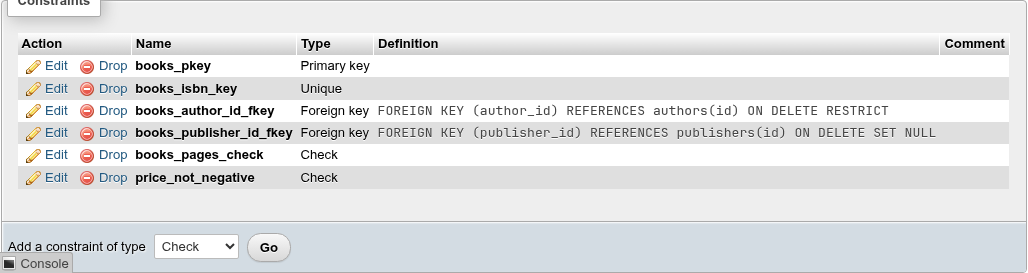
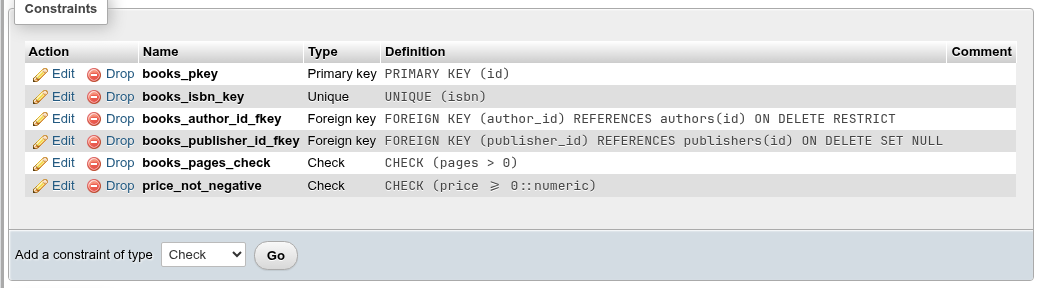
fix(tables): column type COLLATE, constraint definitions, trigger and rule state, atomic create table
- A column type change emits COLLATE only when the new type is collatable
- Primary key, unique and check constraints carry pg_get_constraintdef()
  on the Structure tab
- Extended statistics without a name: the OID lookup used a boolean for
  the schema (Twig "or" → "?:"); owner, target and comment are applied
  under the generated name in the same transaction
- Triggers and rules honour Enabled on create, and an edit restores the
  enabled state CREATE OR REPLACE resets; a rule rename and toggle in one
  save uses the new name; trigger argument changes produce SQL
- Constraint triggers are edited by DROP + CREATE in one batch, keeping
  comment and state; DEFERRABLE can be turned off
- Create table runs CREATE TABLE, partitions and indexes in one
  transaction (indexes on a new table are never CONCURRENTLY)
- Dependents name column defaults by their column instead of "Function",
  and merge an object's duplicate pg_depend rows
- The Cluster link also finds a clustered primary key or unique index

Changed region(s): [[0.0, 0.0, 1.0, 1.0]]

diff --git a/Modules/Tables/resources/js/Pages/TableOperations.tsx b/Modules/Tables/resources/js/Pages/TableOperations.tsx
@@ -28,15 +28,19 @@ export default function TableOperations() {
   const navigate = useNavigate()
   const { data, error, reload } = useRequest(async () => {
     const { scid, tid } = await resolveTable(db, schema, table)
-    const [properties, options, keys, idx] = await Promise.all([
+    const [properties, options, keys, idx, primary, unique] = await Promise.all([
       tables(db, scid).properties(tid),
       tableOptions(db, scid),
       constraints(db, scid, tid, 'foreign_key').list() as Promise<ForeignKeyRow[]>,
       indexesOf(db, scid, tid).list(),
+      // The index list leaves out the indexes of constraints, which the table may be clustered on too.
+      constraints(db, scid, tid, 'primary_key').list(),
+      constraints(db, scid, tid, 'unique_constraint').list(),
     ])
     const parts: Partition[] = properties.is_partitioned ? await partitionsOf(db, scid, tid).list() : []
+    const clustered = [...idx, ...primary, ...unique].find((i) => i.indisclustered)?.name ?? null
 
-    return { scid, tid, properties, options, keys, clustered: idx.find((i) => i.indisclustered)?.name ?? null, partitions: parts }
+    return { scid, tid, properties, options, keys, clustered, partitions: parts }
   }, [db, schema, table])
   const [preview, setPreview] = useState<Preview>(null)
   const [confirm, setConfirm] = useState<{ sql: string; warning?: string; run: () => Promise<void>; boxes?: { key: string; label: string }[] } | null>(null)

diff --git a/Modules/Tables/resources/js/triggers/RuleDialog.tsx b/Modules/Tables/resources/js/triggers/RuleDialog.tsx
@@ -52,7 +52,7 @@ export default function RuleDialog({ show, db, scid, parent, relOid, rule, onClo
   const collection = () => rulesOf(db, scid, parent, relOid)
 
   function data(): RuleData {
-    return { name, event, condition, do_instead: instead, statements: statements.trim() === '' ? 'NOTHING' : statements, comment, is_enable_rule: enabled ? 'O' : 'D' }
+    return { name, event, condition, do_instead: instead, statements: statements.trim() === '' ? 'NOTHING' : statements, comment, is_enable_rule: !enabled ? 'D' : rule && rule.is_enable_rule !== 'D' ? rule.is_enable_rule : 'O' }
   }
 
   async function save() {

diff --git a/Modules/Tables/resources/js/triggers/TriggerDialog.tsx b/Modules/Tables/resources/js/triggers/TriggerDialog.tsx
@@ -110,7 +110,8 @@ export default function TriggerDialog({ show, db, scid, parent, relOid, columns,
       tgoldtable: oldTable,
       tgnewtable: newTable,
       description: comment,
-      is_enable_trigger: enabled ? 'O' : 'D',
+      // Ticked keeps an ENABLE REPLICA or ALWAYS trigger as it is.
+      is_enable_trigger: !enabled ? 'D' : trigger && trigger.is_enable_trigger !== 'D' ? trigger.is_enable_trigger : 'O',
     }
   }
 

diff --git a/Modules/Tables/resources/js/api.ts b/Modules/Tables/resources/js/api.ts
@@ -110,6 +110,8 @@ export interface Constraint {
   condeferred?: boolean
   convalidated?: boolean
   consrc?: string
+  /** A primary key's or unique constraint's index is the one the table is clustered on. */
+  indisclustered?: boolean
 }
 
 export type ConstraintType = 'primary_key' | 'unique_constraint' | 'foreign_key' | 'check_constraint' | 'exclusion_constraint'

diff --git a/app/Core/Nodes/Dependencies.php b/app/Core/Nodes/Dependencies.php
@@ -18,7 +18,7 @@ final class Dependencies
     private const string TEMPLATES = 'depends';
 
     /** The node whose icon a type without a node of its own takes. */
-    private const array ICON_OF = ['partition_table' => 'table', 'partition_index' => 'index', 'toast_table' => 'table'];
+    private const array ICON_OF = ['partition_table' => 'table', 'partition_index' => 'index', 'toast_table' => 'table', 'column_default' => 'column'];
 
     /** relkind codes; null means the row needs a closer look. */
     private const array STANDARD_TYPES = [
@@ -81,7 +81,20 @@ final class Dependencies
         $where ??= sprintf('WHERE dep.refobjid=%d::oid', $oid);
         $sql = Sql::render(self::TEMPLATES, 'dependents.sql', ['where_clause' => $where, 'object_id' => $oid], $conn->version());
 
-        return self::fetch($conn, $sql, $showSystemObjects);
+        // An object that depends on the object and on one of its columns (a check constraint,
+        // a trigger's WHEN, a rule) is one row; when one of those dependencies is auto, it goes
+        // with the object, so that is the restriction shown.
+        $result = [];
+        foreach (self::fetch($conn, $sql, $showSystemObjects) as $row) {
+            $key = $row['type'] . "\0" . $row['name'];
+            if (!isset($result[$key])) {
+                $result[$key] = $row;
+            } elseif ($row['field'] === 'auto') {
+                $result[$key]['field'] = 'auto';
+            }
+        }
+
+        return array_values($result);
     }
 
     /** @return list<array{type: string, name: string, field: string, icon: string|null}> */
@@ -121,12 +134,13 @@ final class Dependencies
                         }
                     }
                 } elseif ($typeCode[0] === 'A') {
-                    // A column default: only worth listing when it calls a function.
+                    // A column default: only worth listing when it calls a function. It is
+                    // named by its column, "public.t.c DEFAULT nextval(…)", not as a function.
                     if (!str_starts_with((string) ($row['adbin'] ?? ''), '{FUNCEXPR')) {
                         continue;
                     }
-                    $typeName = 'function';
-                    $prefix = (string) $row['adsrc'];
+                    $typeName = 'column_default';
+                    $prefix = trim(($row['adcolumn'] ?? '') . (($row['adgenerated'] ?? '') !== '' ? ' GENERATED ALWAYS AS (' . $row['adsrc'] . ')' : ' DEFAULT ' . $row['adsrc']));
                     $keepRef = false;
                 }
             } else {

diff --git a/Modules/Tables/Ddl/TriggerDdl.php b/Modules/Tables/Ddl/TriggerDdl.php
@@ -109,7 +109,13 @@ final class TriggerDdl
             throw new BadRequestException('A trigger needs at least one event.');
         }
 
-        return $ctx->renderFrom('triggers', 'create.sql', ['data' => $data]);
+        $sql = $ctx->renderFrom('triggers', 'create.sql', ['data' => $data]);
+        // A new trigger is enabled ('O'); any other state is an ALTER TABLE after it.
+        if (($data['is_enable_trigger'] ?? 'O') !== 'O') {
+            $sql .= "\n" . $ctx->renderFrom('triggers', 'enable_disable_trigger.sql', ['data' => $data]);
+        }
+
+        return $sql;
     }
 
     /**
@@ -145,7 +151,13 @@ final class TriggerDdl
             $data['evnt_update'] ??= $old['evnt_update'];
         }
         // A CREATE OR REPLACE restates the whole definition; a new one is written from the form.
-        if (array_intersect_key($data, array_flip(['fires', 'is_row_trigger', 'evnt_insert', 'evnt_update', 'evnt_delete', 'evnt_truncate', 'tfunction', 'tgargs', 'whenclause', 'columns', 'is_constraint_trigger'])) !== []) {
+        // A constraint trigger has no CREATE OR REPLACE (and its deferrability is part of its
+        // definition): it is dropped and created again, in the same batch.
+        $isConstraint = (bool) ($data['is_constraint_trigger'] ?? $old['is_constraint_trigger']) || (bool) $old['is_constraint_trigger'];
+        $definition = ['fires', 'is_row_trigger', 'evnt_insert', 'evnt_update', 'evnt_delete', 'evnt_truncate', 'tfunction', 'tgargs', 'whenclause', 'columns', 'is_constraint_trigger', ...($isConstraint ? ['tgdeferrable', 'tginitdeferred'] : [])];
+        if (array_intersect_key($data, array_flip($definition)) !== []) {
+            $data['restate'] = true;
+            $data['recreate'] = $isConstraint;
             foreach (['fires', 'is_row_trigger', 'evnt_insert', 'evnt_update', 'evnt_delete', 'evnt_truncate', 'tfunction', 'is_constraint_trigger'] as $key) {
                 $data[$key] ??= $old[$key];
             }

diff --git a/Modules/Tables/Http/Controllers/StatisticsController.php b/Modules/Tables/Http/Controllers/StatisticsController.php
@@ -68,14 +68,27 @@ final class StatisticsController extends NodeController
         return Ddl::assemble([Ddl::header('Statistics', Quoting::ident((string) $data['schema'], (string) $data['name']), $drop), $ctx->render('create.sql', ['data' => $data])]);
     }
 
-    /** CREATE STATISTICS; the new object's node, found by name or, when the server named it, as the table's newest. */
+    /**
+     * CREATE STATISTICS; the new object's node, found by name or, when the server named it, as
+     * the table's newest. create.sql can only set the owner, target and comment of a named
+     * object, so an unnamed one gets them from ALTER STATISTICS under the name the server chose,
+     * in the same transaction.
+     */
     public function create(NodeContext $ctx, array $data): array
     {
         $data = $this->forCreate($ctx, $data);
-        $this->execute($ctx, $ctx->render('create.sql', ['data' => $data]));
-        $row = $ctx->conn->row($ctx->render('get_oid.sql', ['schema' => $data['schema'], 'name' => $data['name'] ?? null, 'table_schema' => $data['table_schema'], 'table' => $data['table']])) ?? throw $this->gone($ctx);
 
-        return $this->node($ctx, (int) $row['oid']);
+        $oid = $ctx->conn->transaction(function () use ($ctx, $data): int {
+            $this->execute($ctx, $ctx->render('create.sql', ['data' => $data]));
+            $row = $ctx->conn->row($ctx->render('get_oid.sql', ['schema' => $data['schema'], 'name' => $data['name'] ?? null, 'table_schema' => $data['table_schema'], 'table' => $data['table']])) ?? throw $this->gone($ctx);
+            if (!isset($data['name'])) {
+                $this->execute($ctx, $this->updateSql($ctx, (int) $row['oid'], array_intersect_key($data, array_flip(['owner', 'stattarget', 'comment']))));
+            }
+
+            return (int) $row['oid'];
+        });
+
+        return $this->node($ctx, $oid);
     }
 
     /** ALTER STATISTICS for a new name, owner, target or comment. */

diff --git a/Modules/Tables/Http/Controllers/RuleController.php b/Modules/Tables/Http/Controllers/RuleController.php
@@ -5,6 +5,7 @@ declare(strict_types=1);
 namespace PhpPgAdmin\Modules\Tables\Http\Controllers;
 
 use League\Route\Http\Exception\BadRequestException;
+use PhpPgAdmin\Core\Database\Quoting;
 use PhpPgAdmin\Core\Nodes\Ddl;
 use PhpPgAdmin\Core\Nodes\NodeContext;
 
@@ -20,6 +21,9 @@ use PhpPgAdmin\Core\Nodes\NodeContext;
 final class RuleController extends TableChildController
 {
     private const array EVENTS = ['1' => 'SELECT', '2' => 'UPDATE', '3' => 'INSERT', '4' => 'DELETE'];
+
+    /** pg_rewrite.ev_enabled and the ALTER TABLE … RULE clause that sets it. */
+    private const array ENABLE_STATES = ['O' => 'ENABLE', 'D' => 'DISABLE', 'R' => 'ENABLE REPLICA', 'A' => 'ENABLE ALWAYS'];
 
     public function list(NodeContext $ctx): array
     {
@@ -105,8 +109,14 @@ final class RuleController extends TableChildController
         $data['name'] = $this->requireName($data);
         [$data['schema'], $data['view']] = $this->parentNames($ctx);
         $data = self::normalise($data);
+        $sql = $ctx->render('create.sql', ['data' => $data]);
+        // A new rule is enabled ('O'); any other state is an ALTER TABLE after it.
+        $state = self::ENABLE_STATES[(string) ($data['is_enable_rule'] ?? 'O')] ?? null;
+        if ($state !== null && $state !== 'ENABLE') {
+            $sql = rtrim($sql) . sprintf("\n\nALTER TABLE %s\n    %s RULE %s;\n", Quoting::ident((string) $data['schema'], (string) $data['view']), $state, Quoting::ident((string) $data['name']));
+        }
 
-        return $ctx->render('create.sql', ['data' => $data]);
+        return $sql;
     }
 
     /** update.sql against the rule as it stands; fields equal to the current value are dropped. */

diff --git a/Modules/Tables/Ddl/ColumnSql.php b/Modules/Tables/Ddl/ColumnSql.php
@@ -46,6 +46,7 @@ final class ColumnSql
         $column['schema'] = $schema;
         $column['table'] = $table;
         self::normaliseSerial($column, $old);
+        self::dropCollationForType($ctx, $column, $old);
 
         return $ctx->renderFrom('columns', 'update.sql', ['data' => $column, 'o_data' => $old]);
     }
@@ -142,6 +143,28 @@ final class ColumnSql
 
         foreach (['seqincrement', 'seqstart', 'seqmin', 'seqmax', 'seqcache', 'seqcycle', 'seqtypname'] as $key) {
             unset($column[$key]);
+        }
+    }
+
+    /**
+     * The update template repeats the column's collation after a new type; a type without
+     * collation support (integer, a date) rejects any COLLATE clause, so a column changing to
+     * one leaves its old collation behind.
+     *
+     * @param array<string, mixed> $column
+     * @param array<string, mixed> $old
+     */
+    private static function dropCollationForType(NodeContext $ctx, array &$column, array &$old): void
+    {
+        $cltype = $column['cltype'] ?? null;
+        if (!is_string($cltype) || $cltype === '' || $cltype === $old['cltype']) {
+            return;
+        }
+
+        $collatable = $ctx->conn->scalar('SELECT t.typcollation <> 0 FROM pg_catalog.pg_type t WHERE t.oid = pg_catalog.to_regtype($1)', [$cltype]);
+        if ($collatable === false || $collatable === 'f') {
+            unset($column['collspcname']);
+            $old['collspcname'] = '';
         }
     }
 

diff --git a/Modules/Tables/Ddl/TableSql.php b/Modules/Tables/Ddl/TableSql.php
@@ -26,7 +26,8 @@ use PhpPgAdmin\Core\Nodes\Options;
 final class TableSql
 {
     /**
-     * CREATE TABLE and what follows it, then one CREATE INDEX per "indexes" entry.
+     * CREATE TABLE and what follows it, then one CREATE INDEX per "indexes" entry (never
+     * CONCURRENTLY, so that all of it can run in one transaction).
      *
      * @return array{sql: string, indexes: list<string>, name: string, schema: string}
      */
@@ -76,6 +77,9 @@ final class TableSql
 
         $indexes = [];
         foreach ((array) ($data['indexes'] ?? []) as $index) {
+            // The table runs in one transaction with its indexes, which CONCURRENTLY cannot
+            // join; nobody else sees the new table before the commit anyway.
+            $index = [...(array) $index, 'isconcurrent' => false];
             $indexes[] = IndexSql::createSql($ctx, $data['schema'], $name, $index);
         }
 

diff --git a/Modules/Tables/Http/Controllers/TableController.php b/Modules/Tables/Http/Controllers/TableController.php
@@ -43,10 +43,13 @@ final class TableController extends RelationController
     public function create(NodeContext $ctx, array $data): array
     {
         $created = TableSql::create($ctx, $data);
-        $this->execute($ctx, $created['sql']);
-        foreach ($created['indexes'] as $index) {
-            $this->execute($ctx, $index);
-        }
+        // All or nothing: a failing index or partition leaves no table behind.
+        $ctx->conn->transaction(function () use ($ctx, $created): void {
+            $this->execute($ctx, $created['sql']);
+            foreach ($created['indexes'] as $index) {
+                $this->execute($ctx, $index);
+            }
+        });
 
         return $this->node($ctx, $this->oidOf($ctx, $created['name']));
     }

diff --git a/docs/table/triggers.md b/docs/table/triggers.md
@@ -38,7 +38,7 @@ A disabled trigger does not fire, but stays defined. Disabling the internal trig
 | **Constraint** → **Constraint trigger**, **Deferrable**, **Initially deferred** | Tables only: a constraint trigger, which can be deferred to commit. | `CREATE CONSTRAINT TRIGGER … DEFERRABLE INITIALLY DEFERRED` |
 | **Transition tables** → **OLD TABLE AS**, **NEW TABLE AS** | Shown for **STATEMENT** triggers: names for the sets of old and new rows. | `REFERENCING OLD TABLE AS gone` |
 | **Comment** | Trigger comment. | `COMMENT ON TRIGGER` |
-| **Enabled** | See the warning below. | |
+| **Enabled** | Unticked: the trigger is created or kept disabled. | `ALTER TABLE t DISABLE TRIGGER name` |
 
 **Preview SQL** shows the statements and **Go** runs them. A new trigger is created with `CREATE OR REPLACE TRIGGER` (PostgreSQL 14+):
 
@@ -54,11 +54,20 @@ COMMENT ON TRIGGER tbl_room_touch ON public.tbl_room
     IS 'demo trigger';
 ```
 
-Editing a trigger renames it if you changed the name (`ALTER TRIGGER … RENAME TO`), then replaces it with `CREATE OR REPLACE TRIGGER`. PostgreSQL has no `CREATE OR REPLACE` for constraint triggers, so saving an edited constraint trigger fails with *trigger "…" for relation "…" already exists*; to change one, export it, drop it and create it again.
+Editing a trigger renames it if you changed the name (`ALTER TRIGGER … RENAME TO`), then replaces it with `CREATE OR REPLACE TRIGGER`. A trigger that was disabled (or set to `ENABLE REPLICA` / `ENABLE ALWAYS`) keeps that state: the replace re-enables it, so the matching `ALTER TABLE … DISABLE TRIGGER` follows.
 
-::: warning The Enabled box in the dialog is ignored
-Creating a trigger with **Enabled** unticked creates it enabled, and saving the dialog for a disabled trigger enables it again (`CREATE OR REPLACE TRIGGER` resets the state, and no `DISABLE TRIGGER` follows). Use the **Enabled** box in the list instead, after saving the dialog.
-:::
+PostgreSQL has no `CREATE OR REPLACE` for constraint triggers, so an edited constraint trigger (or a trigger turned into or out of one) is dropped and created again in the same batch, with its comment and state restored:
+
+```sql
+DROP TRIGGER IF EXISTS tbl_room_check ON public.tbl_room;
+
+CREATE CONSTRAINT TRIGGER tbl_room_check
+    AFTER INSERT OR DELETE
+    ON public.tbl_room
+    DEFERRABLE INITIALLY DEFERRED
+    FOR EACH ROW
+    EXECUTE FUNCTION public.tbl_check();
+```
 
 ::: info Rules PostgreSQL enforces
 These combinations are refused when you click **Go**, with PostgreSQL's message:
@@ -111,7 +120,7 @@ A rule rewrites a query before it runs: `ON DELETE TO t DO INSTEAD NOTHING` sile
 | **Do instead** | Ticked: replace the original command (`INSTEAD`). Unticked: run in addition (`ALSO`). Ticked by default on a view. | `DO INSTEAD` |
 | **Commands** | The SQL to run. *Empty for DO NOTHING; several commands separated by semicolons.* | `DO (NOTIFY a; NOTIFY b)` |
 | **Comment** | Rule comment. | `COMMENT ON RULE` |
-| **Enabled** | See below. | |
+| **Enabled** | Unticked: the rule is created disabled. | `ALTER TABLE t DISABLE RULE name` |
 
 ```sql
 CREATE RULE tbl_room_keep AS
@@ -122,7 +131,7 @@ CREATE RULE tbl_room_keep AS
 COMMENT ON RULE tbl_room_keep ON public.tbl_room IS 'never delete big rooms';
 ```
 
-The **Enabled** box in the list runs `ALTER TABLE t DISABLE RULE name` / `ENABLE RULE name` at once. As with triggers, the **Enabled** box inside the dialog has no effect: a rule created with it unticked is enabled.
+The **Enabled** box in the list runs `ALTER TABLE t DISABLE RULE name` / `ENABLE RULE name` at once. `CREATE OR REPLACE RULE` keeps a rule's state, so editing a disabled rule leaves it disabled.
 
 ::: tip Prefer triggers to rules
 Rules interact surprisingly with volatile functions, `RETURNING`, `INSERT … ON CONFLICT` and multi-row statements, and an `ON SELECT` rule on a table is not allowed. For audit logging or validation use a trigger; keep rules for the simple "do nothing instead" case. On views, `INSTEAD OF` triggers or the automatic updatability of simple views are usually clearer than rules.
